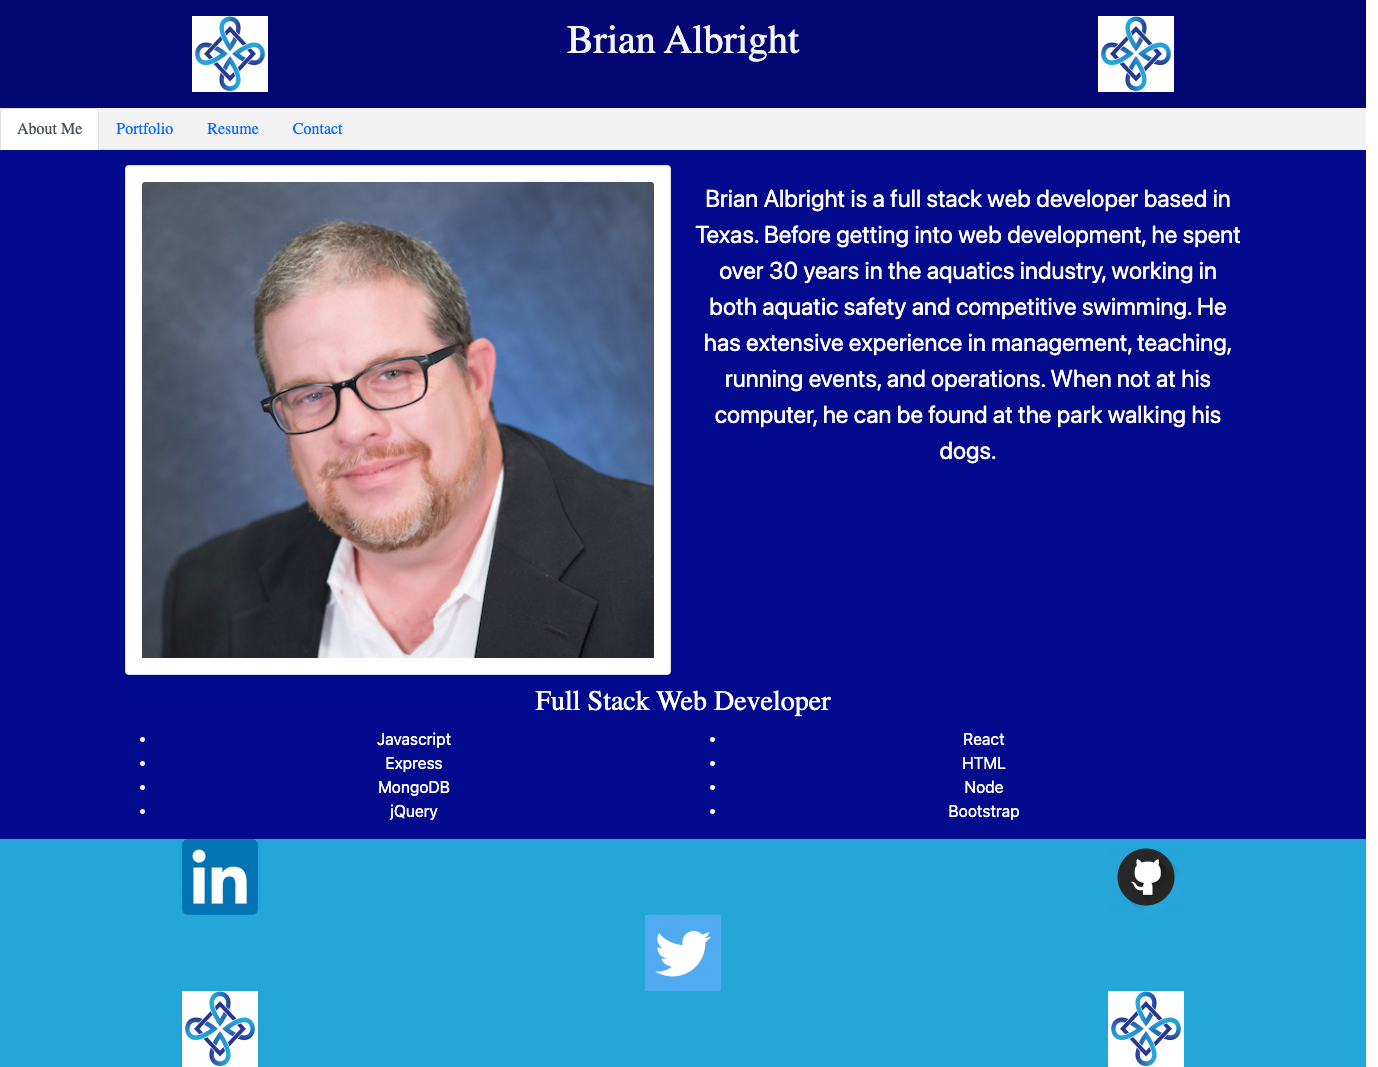
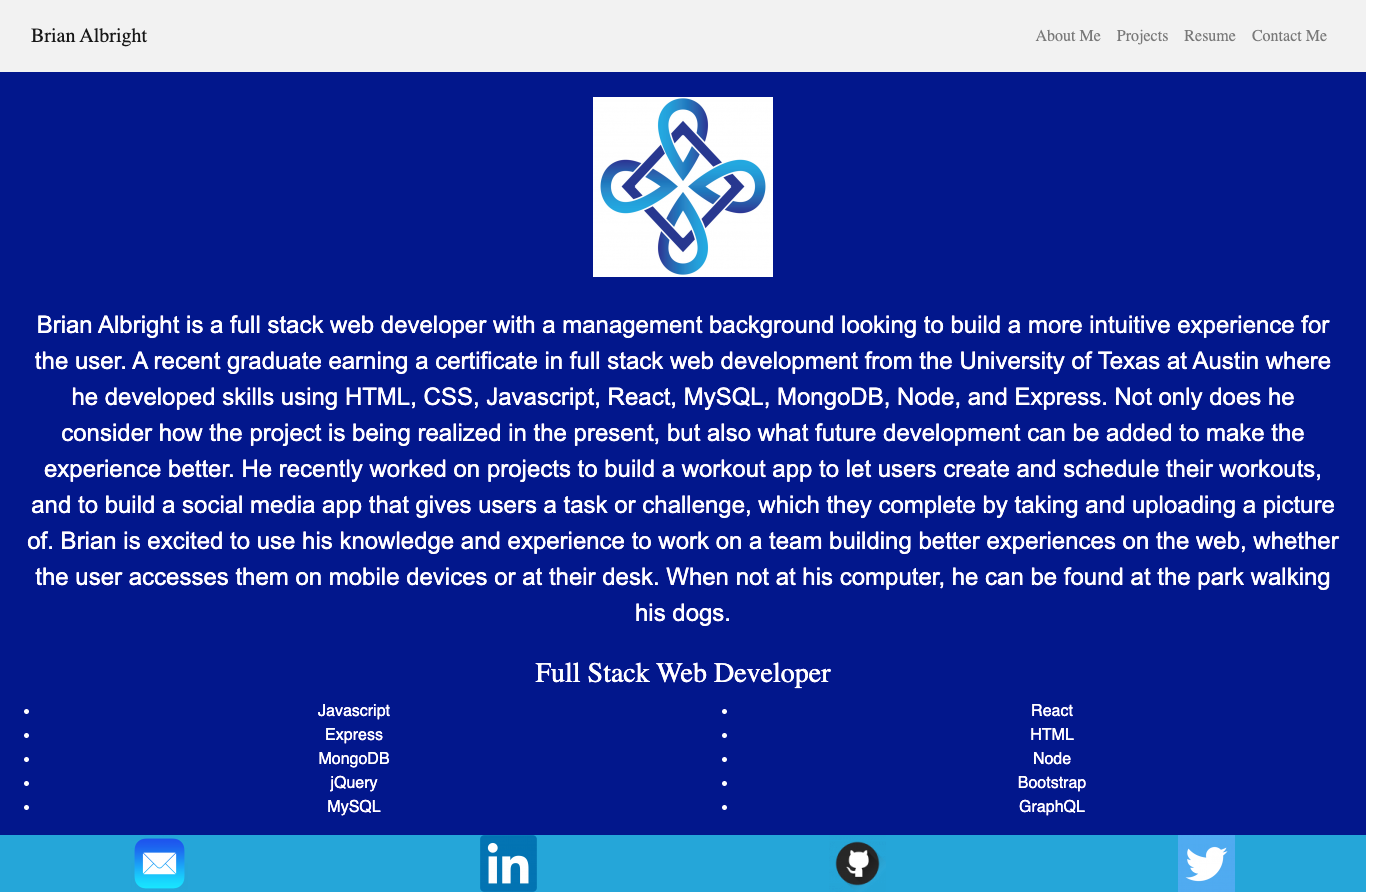
updated the readme file.

diff --git a/README.md b/README.md
@@ -1,7 +1,13 @@
 # Brian Albright
 # React Portfolio
 
-### The assignment was to build a professional portfolio using React that contained a header, nav bar, a single page that 
+### This is my portfolio in React. I originally built it as part of an assignment for the full stack coding bootcamp that I took from UT Austin. Since then, I have modified it to satisfy various requests from career advisors and because I wanted to change some things from what I had to do for the assignment. I plan to make future changes to the style and add some pages as I practice coding and work on projects. 
+
+## Source Code
+
+### I originally used starter code from an activity in the React section of our bootcamp repo. For the most recent changes, I basically deleted that framework and used the src file from the homework assignment from the MERN section as starter code. It gave me a navbar vs navtabs. The overall code was also better, in my opinion. The buildout of the pages is still based on the original code that I wrote for the first incarnation of this portfolio. 
+
+[The repo for our bootcamp with the starter code I used is here](https://github.com/bmalbright/UTA-VIRT-FSF-FT-09-2021-U-LOL)
 
 
 
@@ -12,11 +18,3 @@
 
 
 
-https://stackoverflow.com/questions/40834908/how-to-link-image-in-react-js-using-source/40835103
-
-https://mdbootstrap.com/docs/standard/extended/social-media/#!
-
-https://react-bootstrap.github.io/getting-started/introduction
-
-<!-- media query -->
-https://stackblitz.com/edit/react-cu8xqj?file=src/App.js
